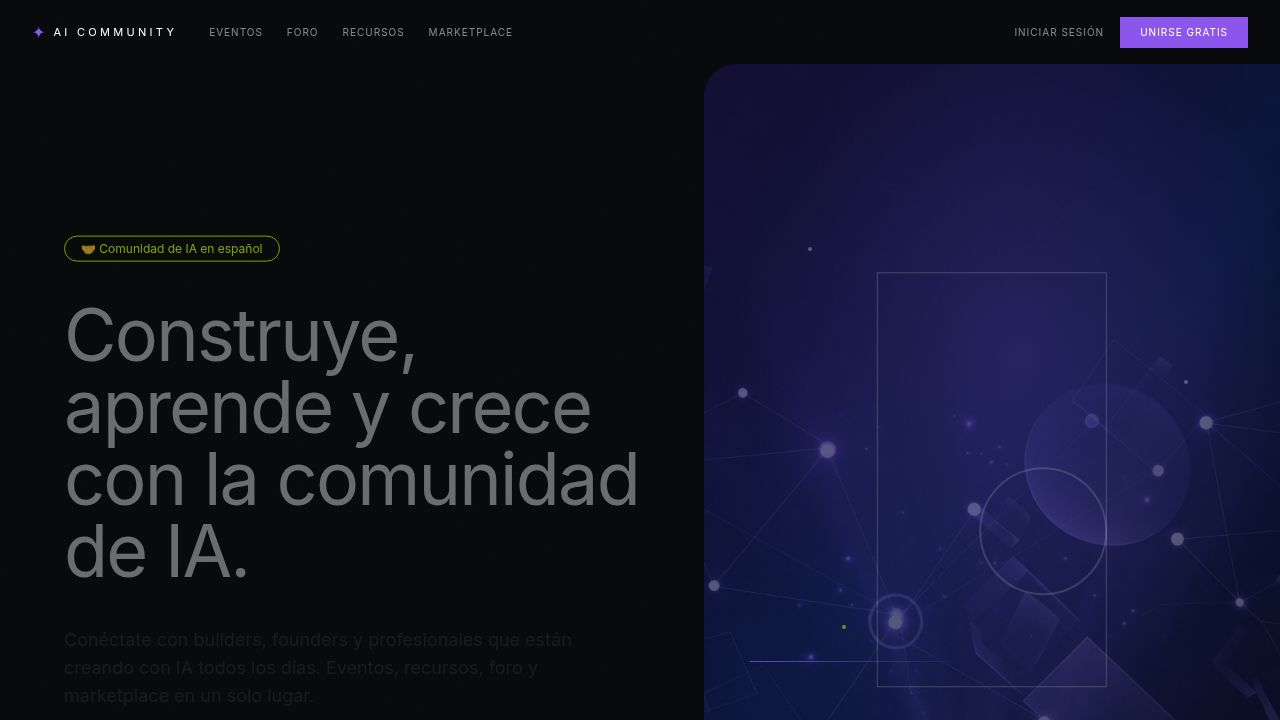
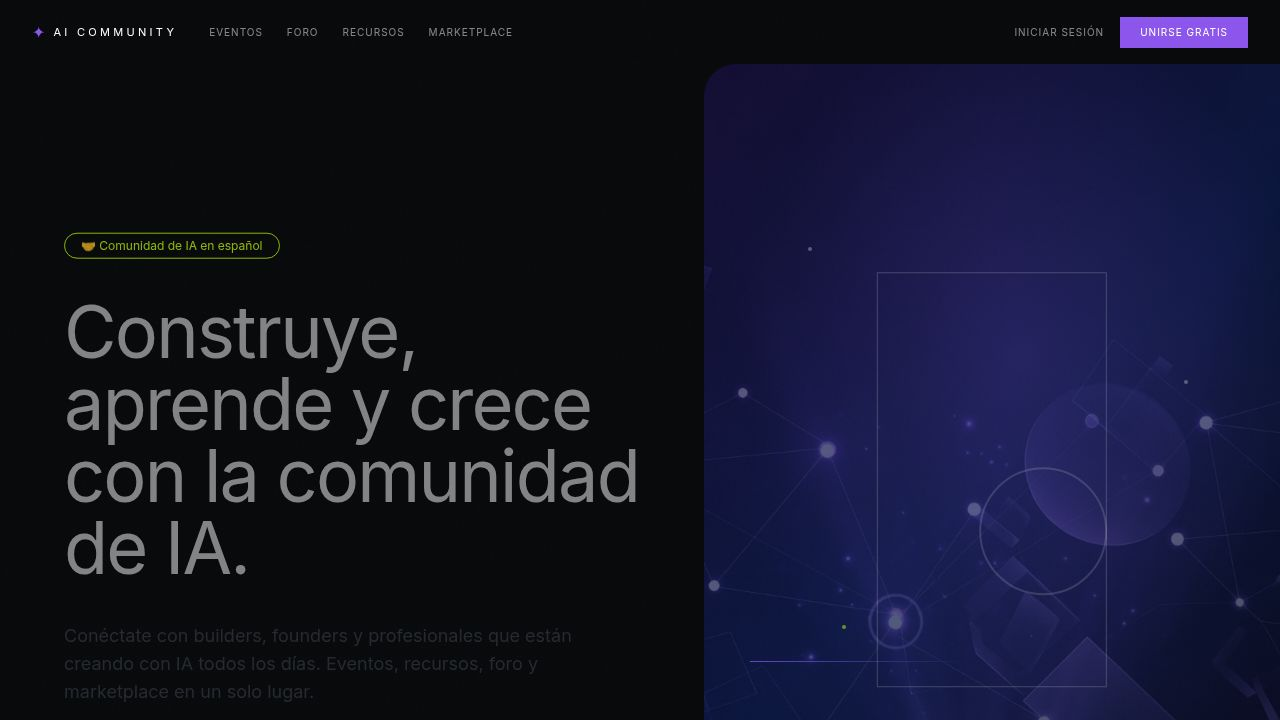
Fix webhook verification by capturing raw request body
Correctly verify webhook signatures by ensuring express.raw() middleware is applied before express.json() for the /api/webhooks/clerk route in app.ts, and utilizing the raw Buffer in webhooks.ts for verification and manual JSON parsing.

Replit-Commit-Author: Agent
Replit-Commit-Session-Id: f2f0246d-7744-432d-93b6-92853fbcdef6
Replit-Commit-Checkpoint-Type: full_checkpoint
Replit-Commit-Event-Id: c0ac12cf-00bf-44a6-aefb-561cd90495c4
Replit-Commit-Screenshot-Url: https://storage.googleapis.com/screenshot-production-us-central1/7bc3dd0c-1e8b-4e69-b62e-6fc97e70c77e/f2f0246d-7744-432d-93b6-92853fbcdef6/ryl7YnI
Replit-Helium-Checkpoint-Created: true

diff --git a/artifacts/api-server/src/routes/webhooks.ts b/artifacts/api-server/src/routes/webhooks.ts
@@ -33,6 +33,10 @@ router.post(
   async (req, res) => {
     const webhookSecret = env.CLERK_WEBHOOK_SECRET;
 
+    // req.body is a Buffer here because express.raw() is applied to this route
+    // before express.json() in app.ts
+    const rawBody = req.body as Buffer;
+
     if (webhookSecret) {
       const svixId = req.headers["svix-id"] as string | undefined;
       const svixTs = req.headers["svix-timestamp"] as string | undefined;
@@ -45,7 +49,8 @@ router.post(
 
       try {
         const wh = new Webhook(webhookSecret);
-        wh.verify(JSON.stringify(req.body), {
+        // Use the raw Buffer — required for valid signature verification
+        wh.verify(rawBody, {
           "svix-id": svixId,
           "svix-timestamp": svixTs,
           "svix-signature": svixSig,
@@ -56,18 +61,25 @@ router.post(
       }
     }
 
-    const { type, data } = req.body as {
-      type: string;
-      data: {
-        id: string;
-        email_addresses?: Array<{ email_address: string; id: string }>;
-        primary_email_address_id?: string;
-        username?: string | null;
-        first_name?: string | null;
-        last_name?: string | null;
-        image_url?: string | null;
-      };
-    };
+    // Parse the JSON payload from the raw body
+    let parsed: { type: string; data: {
+      id: string;
+      email_addresses?: Array<{ email_address: string; id: string }>;
+      primary_email_address_id?: string;
+      username?: string | null;
+      first_name?: string | null;
+      last_name?: string | null;
+      image_url?: string | null;
+    } };
+
+    try {
+      parsed = JSON.parse(rawBody.toString("utf8"));
+    } catch {
+      res.status(400).json({ error: "Invalid JSON body" });
+      return;
+    }
+
+    const { type, data } = parsed;
 
     if (type === "user.created") {
       const primaryEmail = data.email_addresses?.find(

diff --git a/artifacts/api-server/src/app.ts b/artifacts/api-server/src/app.ts
@@ -36,6 +36,8 @@ app.use(
 app.use(CLERK_PROXY_PATH, clerkProxyMiddleware());
 
 app.use(cors({ credentials: true, origin: true }));
+// Capture raw body for Clerk webhook signature verification BEFORE express.json() parses it
+app.use("/api/webhooks/clerk", express.raw({ type: "application/json" }));
 app.use(express.json());
 app.use(express.urlencoded({ extended: true }));
 